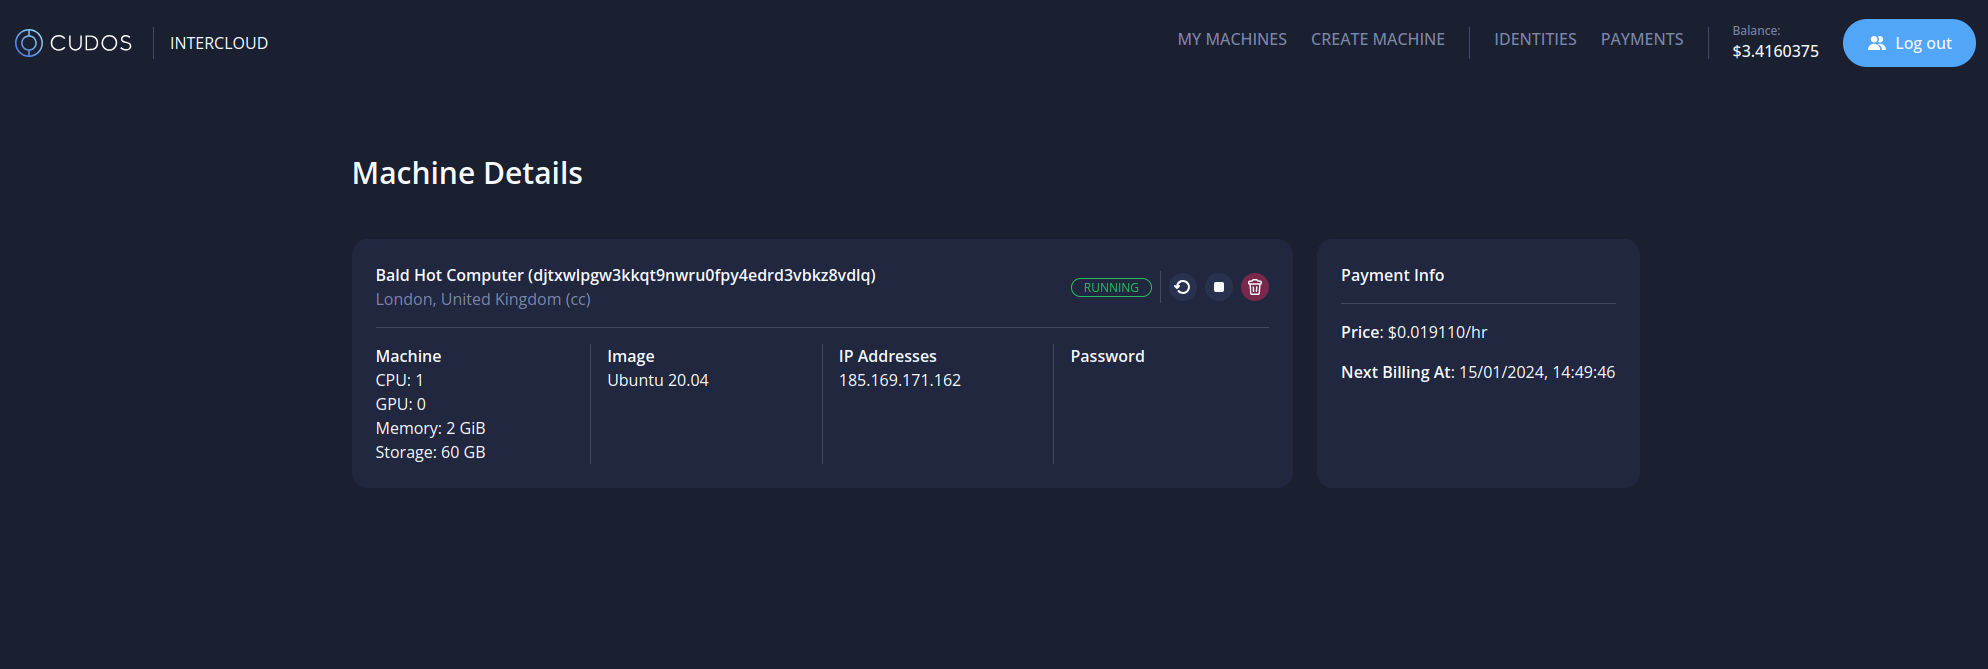
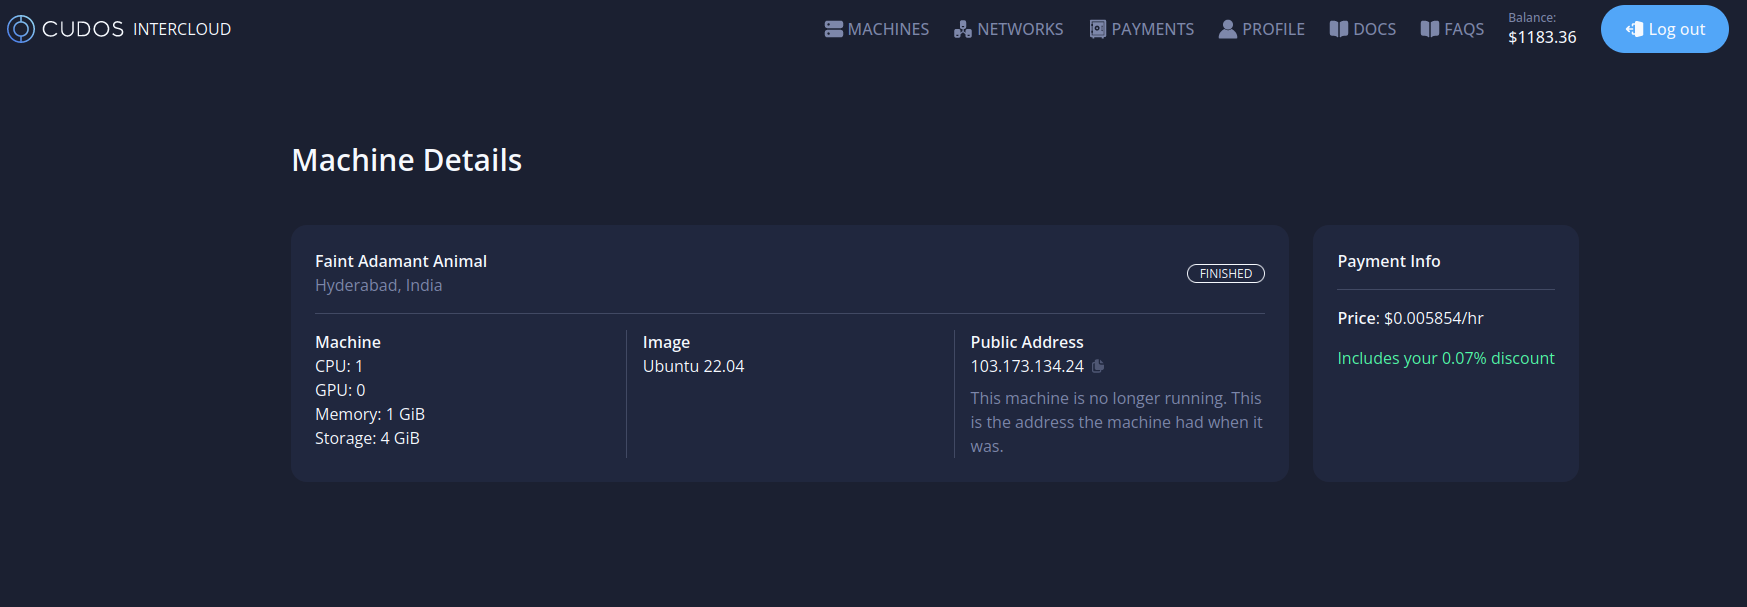
update top nav bar

diff --git a/sidebars.js b/sidebars.js
@@ -138,7 +138,7 @@ module.exports = {
             'cudos-intercloud/usage/via-user-interface/creating-an-ssh-key',
             'cudos-intercloud/usage/via-user-interface/creating-a-virtual-machine',
             'cudos-intercloud/usage/via-user-interface/viewing-your-machines',
-            'cudos-intercloud/usage/via-user-interface/identities',
+            'cudos-intercloud/usage/via-user-interface/profile',
             'cudos-intercloud/usage/via-user-interface/payments',
             'cudos-intercloud/usage/via-user-interface/private-networks',
           ]

diff --git a/docs/cudos-intercloud/usage/via-user-interface/profile.md b/docs/cudos-intercloud/usage/via-user-interface/profile.md
@@ -1,11 +1,15 @@
 ---
-title: My Identities
-id: identities
+title: Profile
+id: profile
 ---
 
-# Viewing Your Blockchain Identities
+# Profile Page
 
-To view the identities associated with your CUDOS Intercloud account, click on the **Identities** option from the Menu. 
+Use your profile page to add new identities to your account, and also to view all currently active discounts.
+
+## My Identities
+
+The identities associated with your CUDOS Intercloud account are shown at the top of the profile page. 
 
 :::info
 
@@ -16,14 +20,15 @@ Identities on CUDOS Intercloud refer to the blockchain accounts added to your CU
 On this page you can see the current blockchain accounts you have added to your CUDOS Intercloud account.
 All of them are shared within the account, and so VMs and payments can be managed by logging in with any of the accounts listed.
 
-![cic-identities](@site/static/img/cic-identities.png)
+![cic-profile](@site/static/img/cic-profile.png)
 
-## Connecting Additional Identities
+### Connecting Additional Identities
 
 1. Select the wallet address that you'd like to add from your wallet extension,
     1. On your Keplr wallet switch to the account you would like to add, making that account the current active account.
     2. For MetaMask you can choose which accounts you want to connect to the page from the MetaMask pop-up. If you choose more than one, the currently active one in the wallet extension will be the one added to the platform.
-2. Click on `Connect Additional Identity` at the top right. A window will pop-up where you will be prompted to approve the connection of the account to CUDOS Intercloud. Click on the **approve** button to confirm.
+    3. Secret's login is also done using Keplr and the currently active account selected within.
+2. Click on `Connect another address` at the top right. A window will pop-up where you will be prompted to approve the connection of the account to CUDOS Intercloud. Click on the **approve** button to confirm.
 
 An additional identity has been successfully added to your CUDOS Intercloud account. 
 
@@ -32,3 +37,8 @@ An additional identity has been successfully added to your CUDOS Intercloud acco
 Keplr and MetaMask are currently supported. Cosmostation and more will follow shortly.
 
 :::
+
+## Discounts and Bonuses
+
+View all currently active promotions and permanent dicsounts that apply to the platform, and track your progress agains the ones you're eligible for.
+To view all currently active discounts and promotions please see the [discounts and bonuses page](/docs/cudos-intercloud/discounts-and-bonuses.md).

diff --git a/docs/cudos-intercloud/usage/via-user-interface/creating-a-virtual-machine.md b/docs/cudos-intercloud/usage/via-user-interface/creating-a-virtual-machine.md
@@ -5,10 +5,28 @@ id: creating-a-virtual-machine
 
 # Creating a Virtual Machine
 
-Also in the top right corner, you’ll find the menu. To start creating a machine, hit the create machine button. You’ll be taken to the page below. 
+To reach the VM creation page, first click on the **Machines** tab in the top navigation menu.
+Then, click on **Create a virtual machine** at the top right of that page.
 
-![cic-create-vm](@site/static/img/cic-create-vm.png)
+![cic-create-vm-button](@site/static/img/cic-create-vm-button.png)
 
-On this page you’ll be met with a variety of options that allow you to configure your machine’s specifications as you see fit.  
+
+That will take you to the VM create page.
+There you’ll be met with a variety of options that allow you to configure your machine’s specifications as you see fit, including:
+- OS image.
+    - Choose a popular image such as Ubuntu, or explore our GPU-focused images with Docker and the GPU drivers preinstalled, or ready with Stability.ai's software preinstalled.
+- Region.
+- Machine and GPU details.
+- Storage.
+- Networking.
 
 Each step has an **(i)** icon which you can hover over for more information. 
+Any discounts that may apply to your account will be shown on the pricing summary on the right hand side of the page.
+
+![cic-create-vm-details](@site/static/img/cic-create-vm-details.png)
+
+:::caution
+
+Please back up any critical and sensitive data that you store in a Virtual Machine, following the best practice guidlines of VM usage.
+
+:::

diff --git a/docs/cudos-intercloud/usage/via-user-interface/viewing-your-machines.md b/docs/cudos-intercloud/usage/via-user-interface/viewing-your-machines.md
@@ -5,9 +5,13 @@ id: viewing-your-machines
 
 # Viewing Your Virtual Machines
 
-To view all the machines you have created, click on the **My Machines** option from the Menu. 
+To view all the machines you have created, click on the **Machines** option from the Menu. 
 
-![cic-my-machines](@site/static/img/cic-my-machines.png)
+![cic-mmachine-list](@site/static/img/cic-machine-list.png)
+
+A list of the currently active machines will be displayed, as well as machines that were terminated in an earlier version of the platform.
+To remove terminated machines in bulk from the active list, or to delete active machines, you can select them in the list, and then click the **Delete** button.
+To display all deleted machines you can use the **Show deleted machines** toggle switch at the top right of the machine list.
 
 ## Machine States
 
@@ -23,6 +27,8 @@ There are a few machine states to be aware of:
 Click on a machine’s ID to view more details about it. This will take you to the virtual machine's details page that contains information about its status, region, IP address, operating system distro and version, and specification. 
 
 ![cic-my-vm](@site/static/img/cic-my-vm.png)
+
+If you have any discounts applied for your next billing period they will also be displayed on this page.
 
 ## Managing Your Machines
 

diff --git a/docs/cudos-intercloud/usage/via-user-interface/payments.md b/docs/cudos-intercloud/usage/via-user-interface/payments.md
@@ -6,8 +6,9 @@ id: payments
 # Managing Your Payments
 
 On this page you can top up your account balance, from which all VMs take payments from.
+Any promotions applied to any payment methids will be displayed here.
 
 ![cic-payments](@site/static/img/cic-payments.png)
 
 You can choose the amount you want to top up by either in crypto or in USD.
-You can find a full list of accepted currencies [here](https://docs.cudos.org/docs/cudos-intercloud/chains-currencies).
+You can find a full list of accepted currencies and chains [here](/docs/cudos-intercloud/chains-currencies.md).
